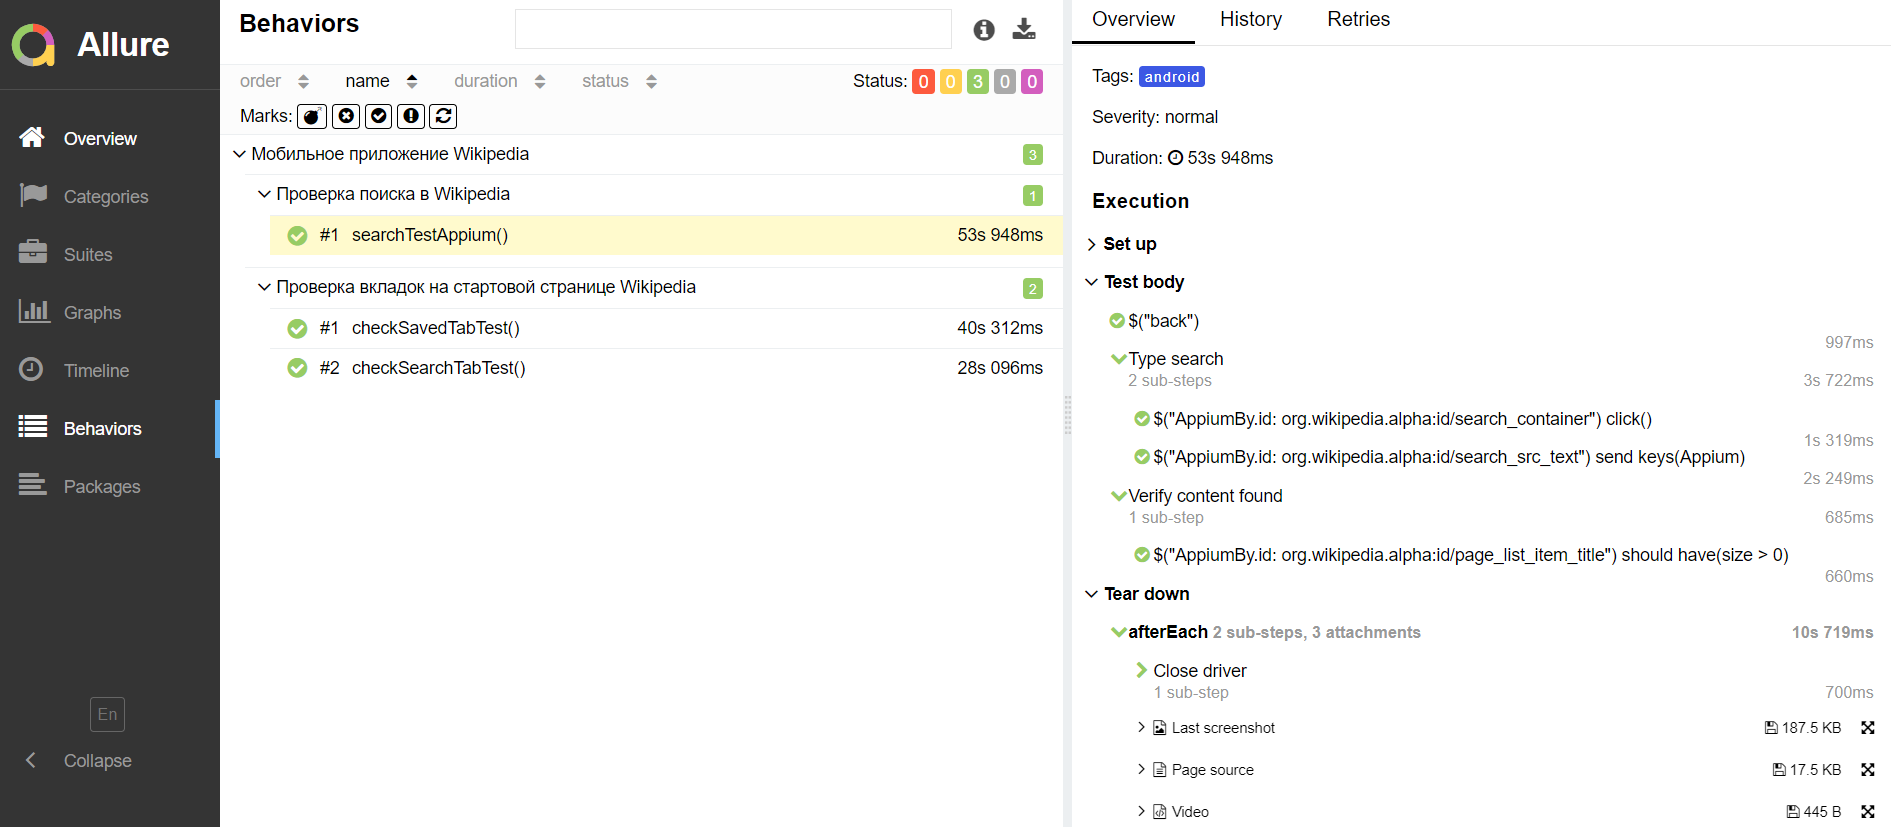
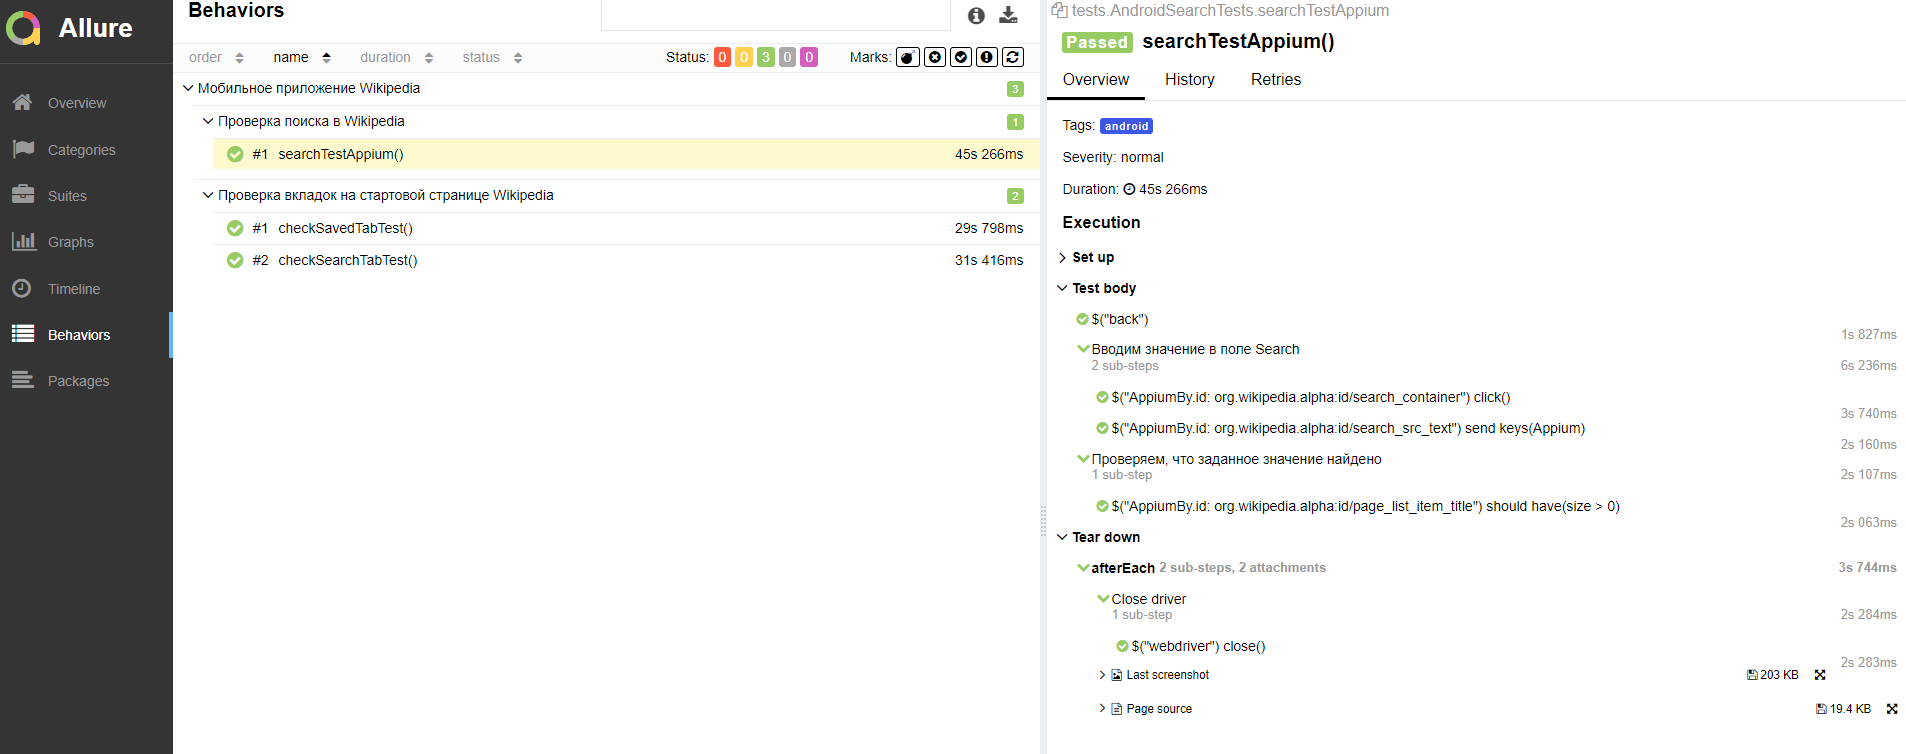
README updated

diff --git a/src/test/java/tests/AndroidSearchTests.java b/src/test/java/tests/AndroidSearchTests.java
@@ -22,11 +22,11 @@ public class AndroidSearchTests extends TestBase {
     @Story("Проверка  поиска в Wikipedia")
     void searchTestAppium() {
         back();
-        step("Type search", () -> {
+        step("Вводим значение в поле Search", () -> {
             $(AppiumBy.id("org.wikipedia.alpha:id/search_container")).click();
             $(AppiumBy.id("org.wikipedia.alpha:id/search_src_text")).sendKeys("Appium");
         });
-        step("Verify content found", () ->
+        step("Проверяем, что заданное значение найдено", () ->
                 $$(AppiumBy.id("org.wikipedia.alpha:id/page_list_item_title"))
                         .shouldHave(sizeGreaterThan(0)));
     }
@@ -37,10 +37,10 @@ public class AndroidSearchTests extends TestBase {
     @Story("Проверка вкладок на стартовой странице Wikipedia")
     void checkSearchTabTest() {
         back();
-        step("Click on search tab", () -> {
+        step("Нажимаем на вкладку Search", () -> {
             $(AppiumBy.id("org.wikipedia.alpha:id/nav_tab_search")).click();
         });
-        step("Check the opened page", () -> {
+        step("Проверяем, что открылась нужная страница", () -> {
             $(AppiumBy.id("org.wikipedia.alpha:id/history_title")).shouldHave(Condition.text("History"));
         });
     }
@@ -51,10 +51,10 @@ public class AndroidSearchTests extends TestBase {
     @Story("Проверка вкладок на стартовой странице Wikipedia")
     void checkSavedTabTest() {
         back();
-        step("Click on saved tab", () -> {
+        step("Нажимаем на вкладку Saved", () -> {
             $(AppiumBy.id("org.wikipedia.alpha:id/nav_tab_reading_lists")).click();
         });
-        step("Check the saved page", () -> {
+        step("Проверяем, что открылась нужная страница", () -> {
             $(AppiumBy.id("org.wikipedia.alpha:id/positiveButton")).shouldHave(Condition.text("LOG IN / JOIN WIKIPEDIA"));
         });
     }

diff --git a/README.md b/README.md
@@ -1,6 +1,4 @@
-# Автоматизация тестирования приложений на Android:  
-<p align="center">
-<img width="6%" title="Android Studio" src="images/logo/Wikipedia.png"> Wikipedia
+# Автоматизация тестирования приложений на Android:  <img width="6%" title="Android Studio" src="images/logo/Wikipedia.png"> Wikipedia
 
 > Википедия - общедоступная универсальная интернет-энциклопедия со свободным контентом. 
 
@@ -98,7 +96,7 @@ clean android -DdeviceHost=${DEVICEHOST}
 <p  align="center">
 <img src="images/screens/AllureReport.PNG" alt="AllureReport" width="1050">
 </p>
-
+Список перечисления тестов с описанием шагов
 <p  align="center">
 <img src="images/screens/Allure_Report_TestCases.PNG" alt="AllureReportTestCases" width="1050">
 </p>
